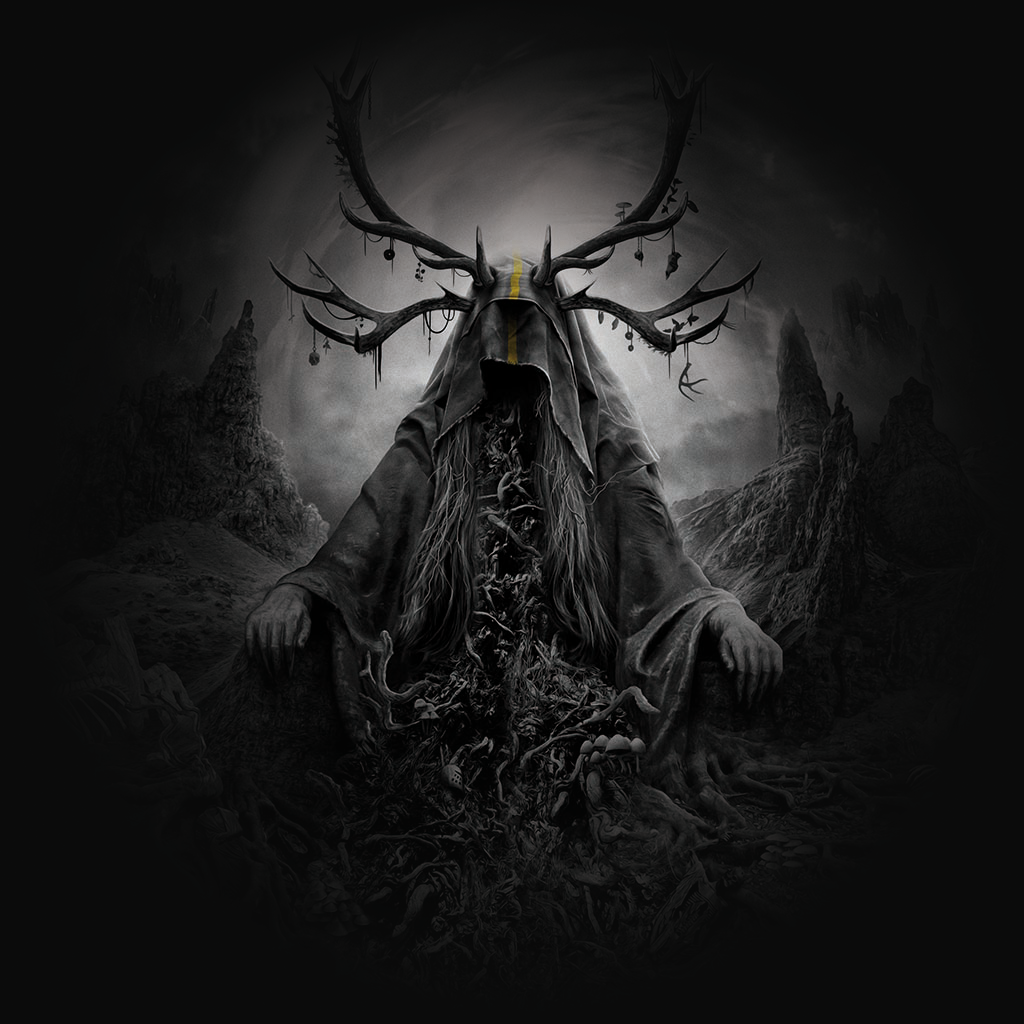
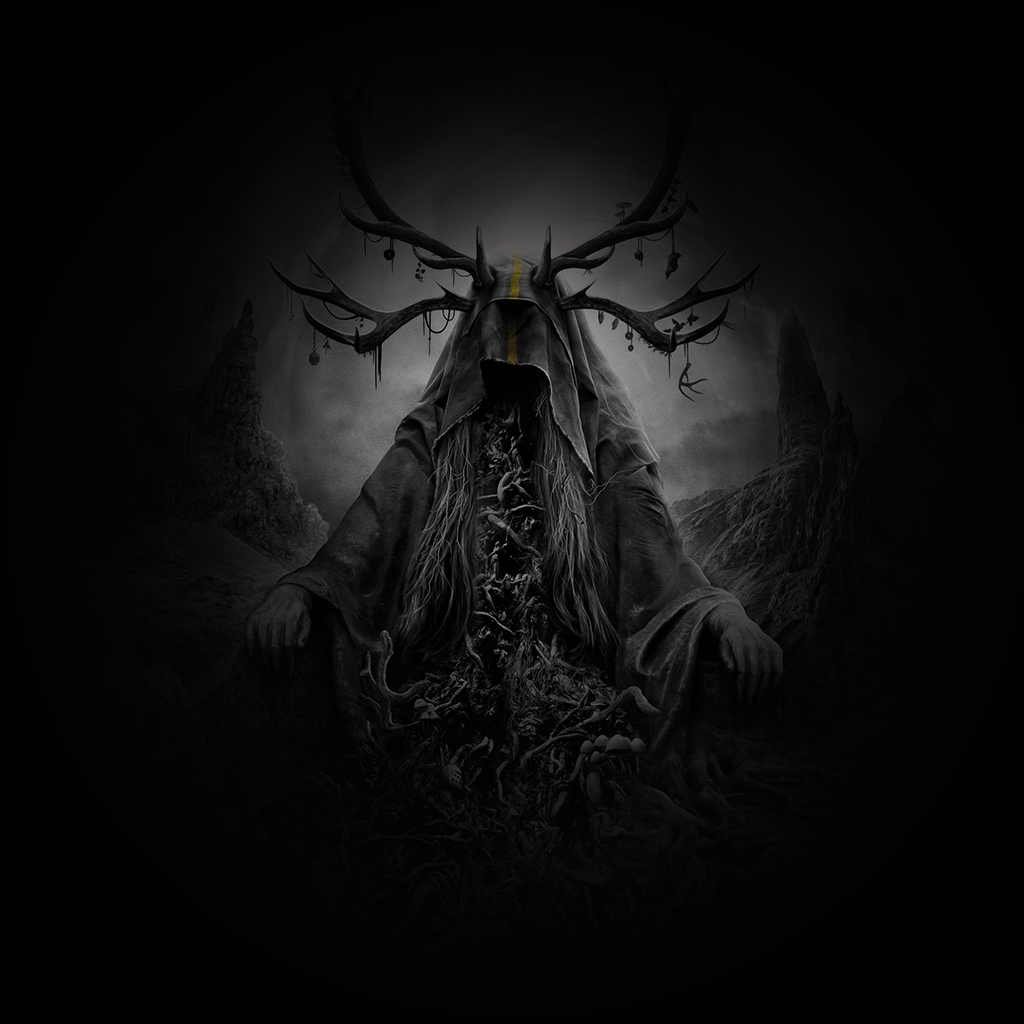
fix bugs

diff --git a/src/styles.css b/src/styles.css
@@ -4,16 +4,16 @@
         border: 0;
     }
     /*background img*/
-
+    
     body {
-        background-color: #0a0a0a !important;
+        background-color: #000000 !important;
         background-image: url('src\assets\bg.png');
         background-repeat: no-repeat;
         background-position-x: center;
     }
     /*background img ends*/
     /*logo*/
-
+    
     #logo {
         position: fixed;
         top: 6.5%;
@@ -24,13 +24,13 @@
     }
     /*logo ends*/
     /*menu górne*/
-
+    
     .bg-color {
         background-color: rgba(0, 0, 0, 0.582);
     }
     /*menu górne ends*/
     /*content*/
-
+    
     #outlet {
         position: absolute;
         top: 43%;
@@ -39,7 +39,7 @@
         background-color: rgba(0, 0, 0, 0.342);
         margin: 10px;
     }
-
+    
     .info p {
         padding: 5px;
         font-size: 15px;
@@ -50,42 +50,42 @@
     }
     /*content ends*/
     /*koncerty*/
-
+    
     table {
         width: 100%;
         font-family: Arial, Helvetica, sans-serif;
         color: rgba(245, 245, 245, 0.719);
         margin: 5px;
     }
-
+    
     table.tablehead th {
         width: 25%;
         text-align: center;
     }
-
+    
     table.tablehead {
         background-color: rgba(0, 0, 0, 0.582);
     }
-
+    
     table.tablebody:nth-child(2n+1) {
         background-color: rgba(150, 160, 160, 0.274);
     }
-
+    
     div.tbody:nth-child(2n) {
         background-color: rgba(7, 6, 8, 0.842);
     }
-
+    
     div.tbody:nth-child(n):hover {
         opacity: 80%;
     }
-
+    
     table.tablebody td {
         width: 25%;
         text-align: center;
     }
     /*koncerty ends*/
     /*dyskografia*/
-
+    
     .disc img {
         contain: 100%;
         display: block;
@@ -96,47 +96,47 @@
         padding: 0px;
         transition: .8s;
     }
-
+    
     .disc button :hover {
         opacity: 0.7;
         transition: .5s;
     }
-
+    
     .text {
         color: white;
         font-size: 16px;
         padding: 8px;
         font-family: 'Montserrat', sans-serif;
     }
-
+    
     .disc ol {
         display: inline-block;
         list-style-type: decimal;
         padding-left: 15px;
     }
-
+    
     .maxi-width {
         max-width: 500px;
     }
     /*dyskografia ends*/
     /*footer*/
-
+    
     .footer {
         position: fixed;
         right: 0;
         bottom: 10%;
     }
-
+    
     .social-icons {
         padding-left: 0;
         margin-bottom: 0;
         list-style: none
     }
-
+    
     .social-icons li {
         margin-bottom: 4px
     }
-
+    
     .social-icons li.title {
         margin-right: 15px;
         text-transform: uppercase;
@@ -144,7 +144,7 @@
         font-weight: 700;
         font-size: 13px
     }
-
+    
     .social-icons a {
         background-color: #eceeef;
         color: #818a91;
@@ -160,37 +160,44 @@
         -o-transition: all .2s linear;
         transition: all .2s linear
     }
-
+    
     .social-icons a:active,
     .social-icons a:focus,
     .social-icons a:hover {
         color: #fff;
         background-color: #7a868d
     }
-
+    
     .social-icons a.facebook:hover {
         background-color: #3b5998
     }
-
+    
     .social-icons a.youtube:hover {
         background-color: #c4302b
     }
-
+    
     .social-icons a.spotify:hover {
         background-color: #1DB954
     }
-
+    
     .social-icons a.dribbble:hover {
         background-color: #ea4c89
     }
     /*footer ends*/
-
+    
     @media (max-width:575px) {
         .social-icons a {
             width: 33px;
             height: 33px;
         }
     }
-
-html, body { height: 100%; }
-body { margin: 0; font-family: Roboto, "Helvetica Neue", sans-serif; }
+    
+    html,
+    body {
+        height: 100%;
+    }
+    
+    body {
+        margin: 0;
+        font-family: Roboto, "Helvetica Neue", sans-serif;
+    }
